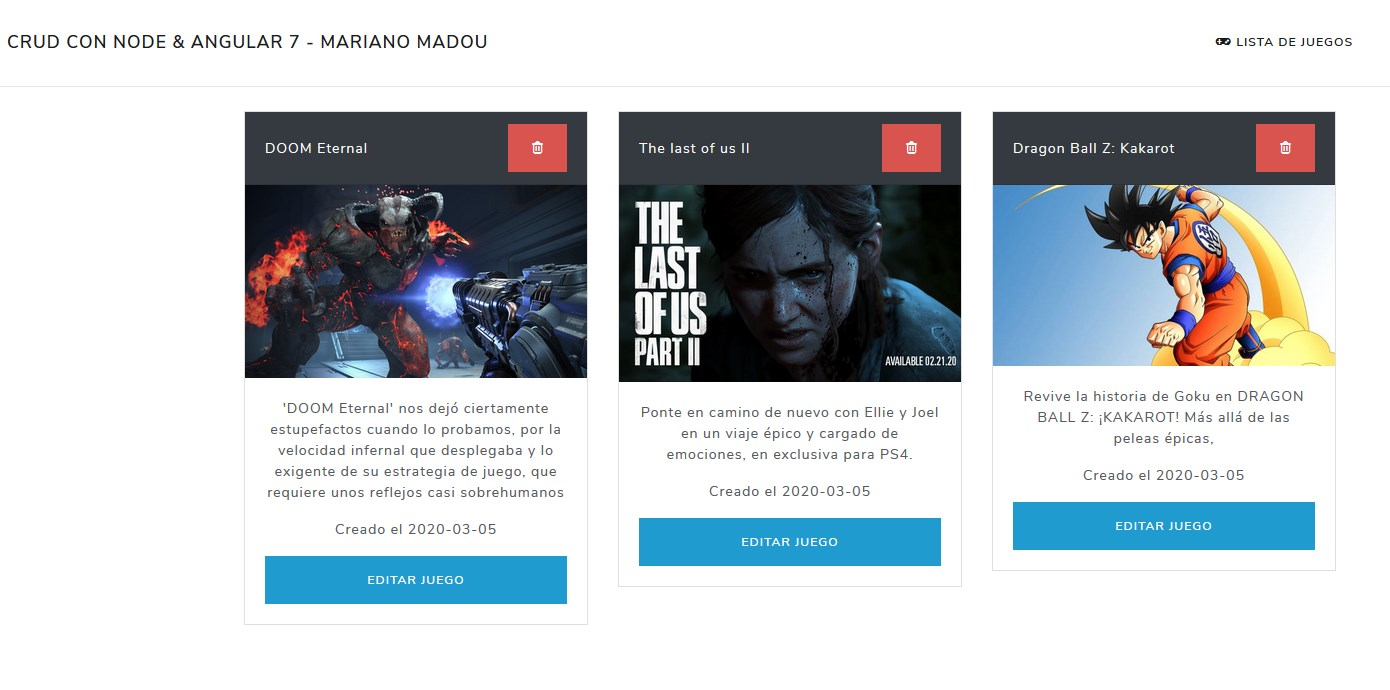
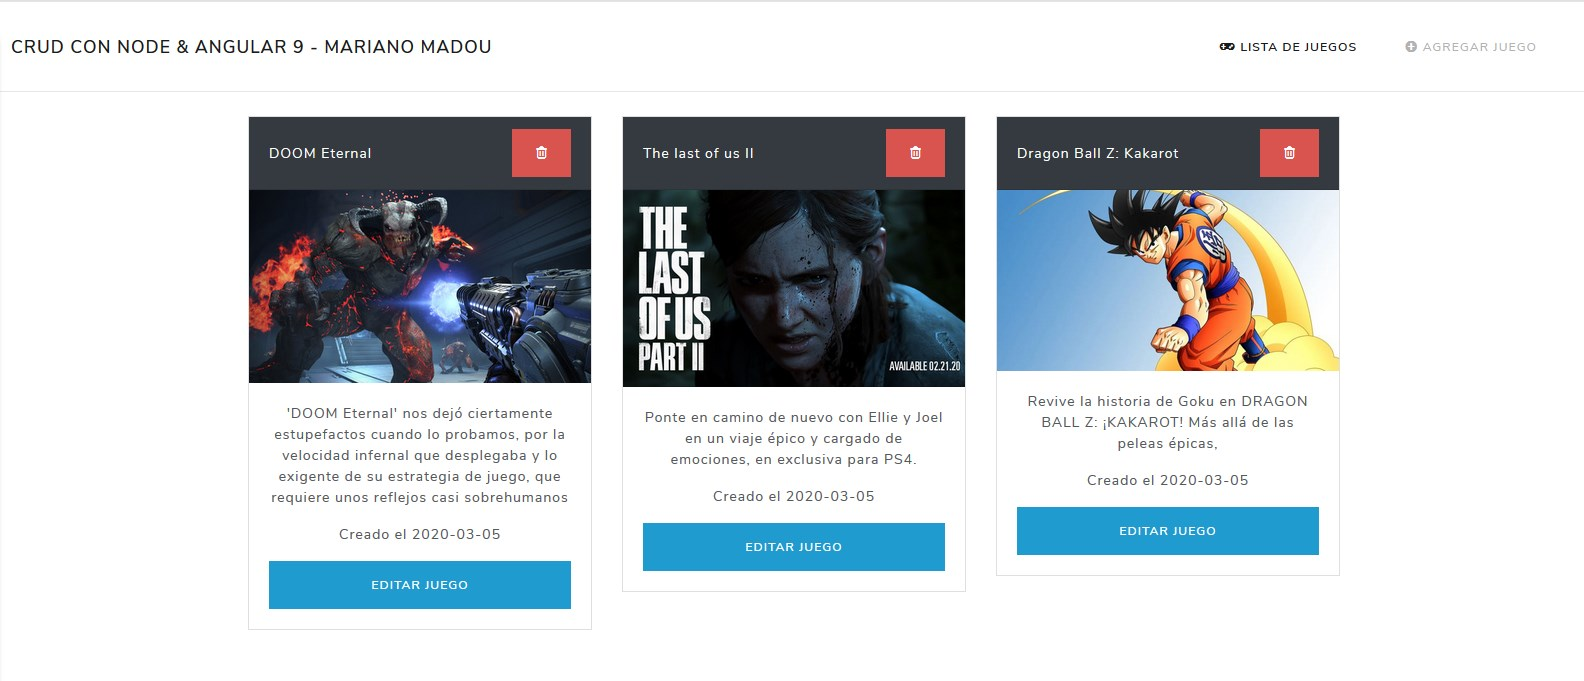
subiendo repo

diff --git a/client/src/app/components/navigation/navigation.component.html b/client/src/app/components/navigation/navigation.component.html
@@ -1,5 +1,5 @@
 <nav class="navbar navbar-expand-lg navbar-light bg-light">
-    <a class="navbar-brand" routerLink="/">CRUD con NODE & Angular 7 - Mariano Madou</a>
+    <a class="navbar-brand" routerLink="/">CRUD con NODE & Angular 9 - Mariano Madou</a>
     <button class="navbar-toggler" type="button" data-toggle="collapse" data-target="#navbarNav" aria-controls="navbarNav" aria-expanded="false" aria-label="Toggle navigation">
     <span class="navbar-toggler-icon"></span>
   </button>

diff --git a/client/src/index.html b/client/src/index.html
@@ -3,7 +3,7 @@
 
 <head>
     <meta charset="utf-8">
-    <title>CRUD con NODE & Angular 7 - Mariano Madou</title>
+    <title>CRUD con NODE & Angular 9 - Mariano Madou</title>
     <base href="/">
 
     <meta name="viewport" content="width=device-width, initial-scale=1">
